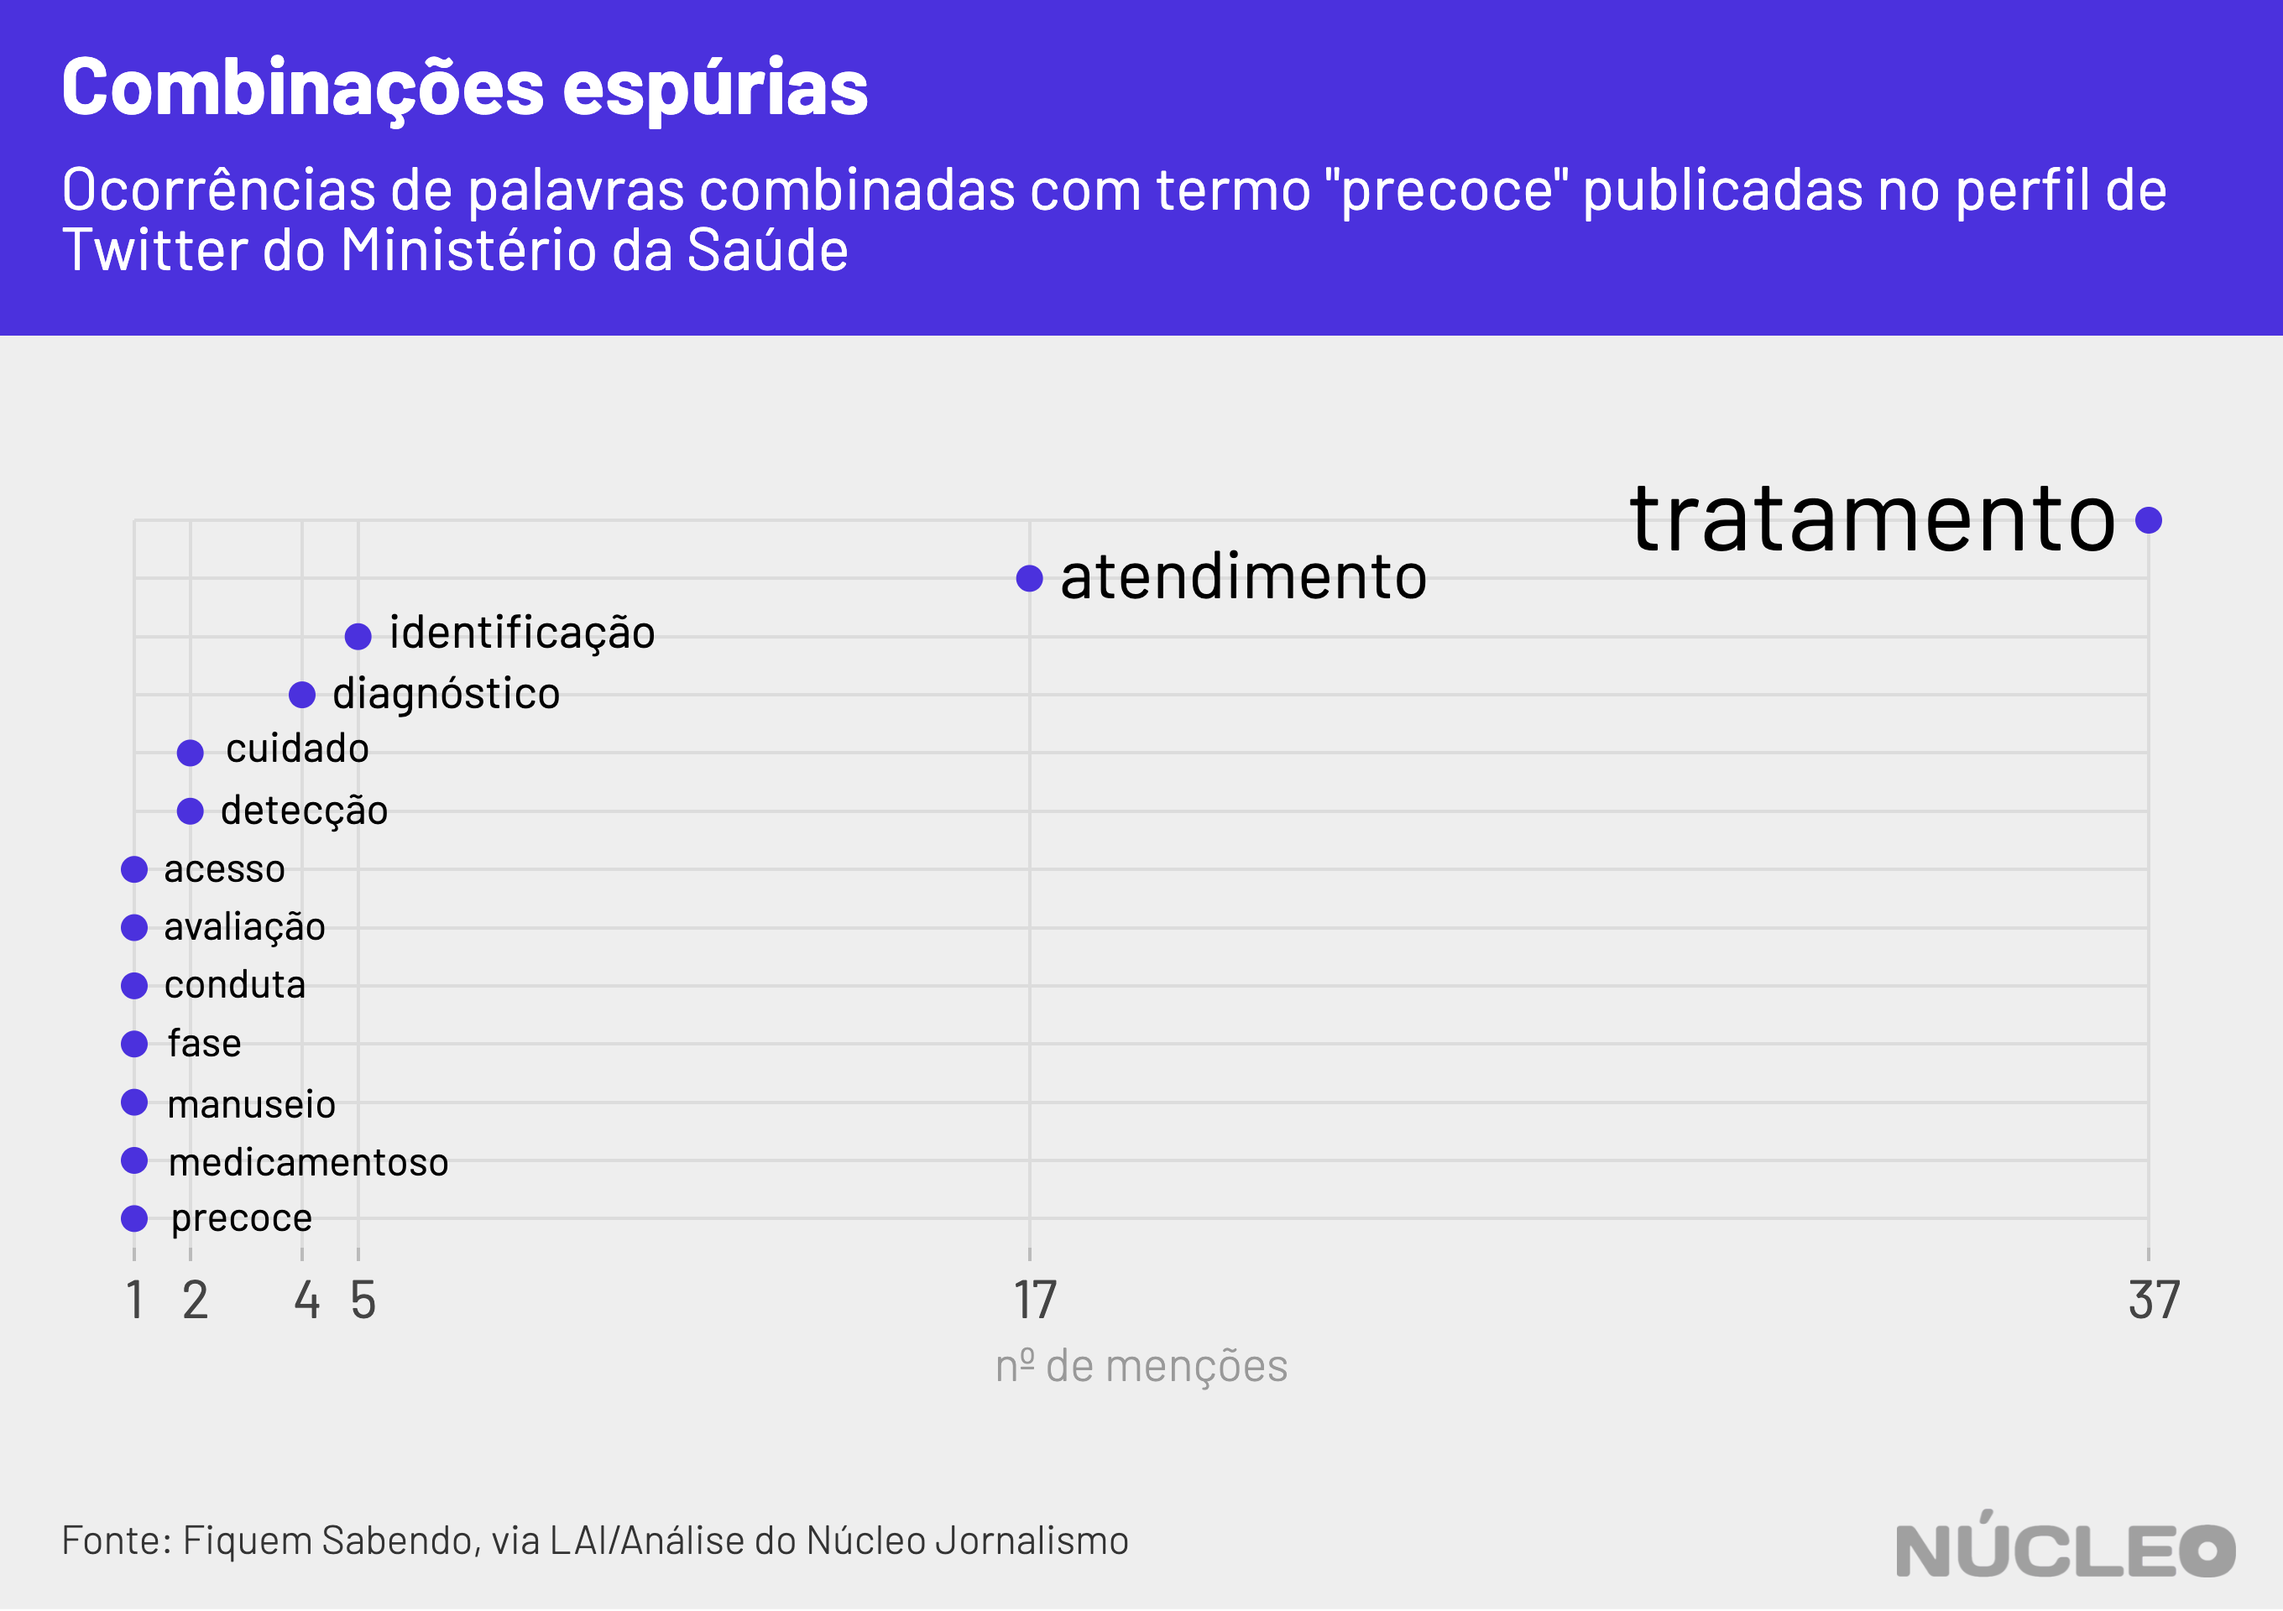
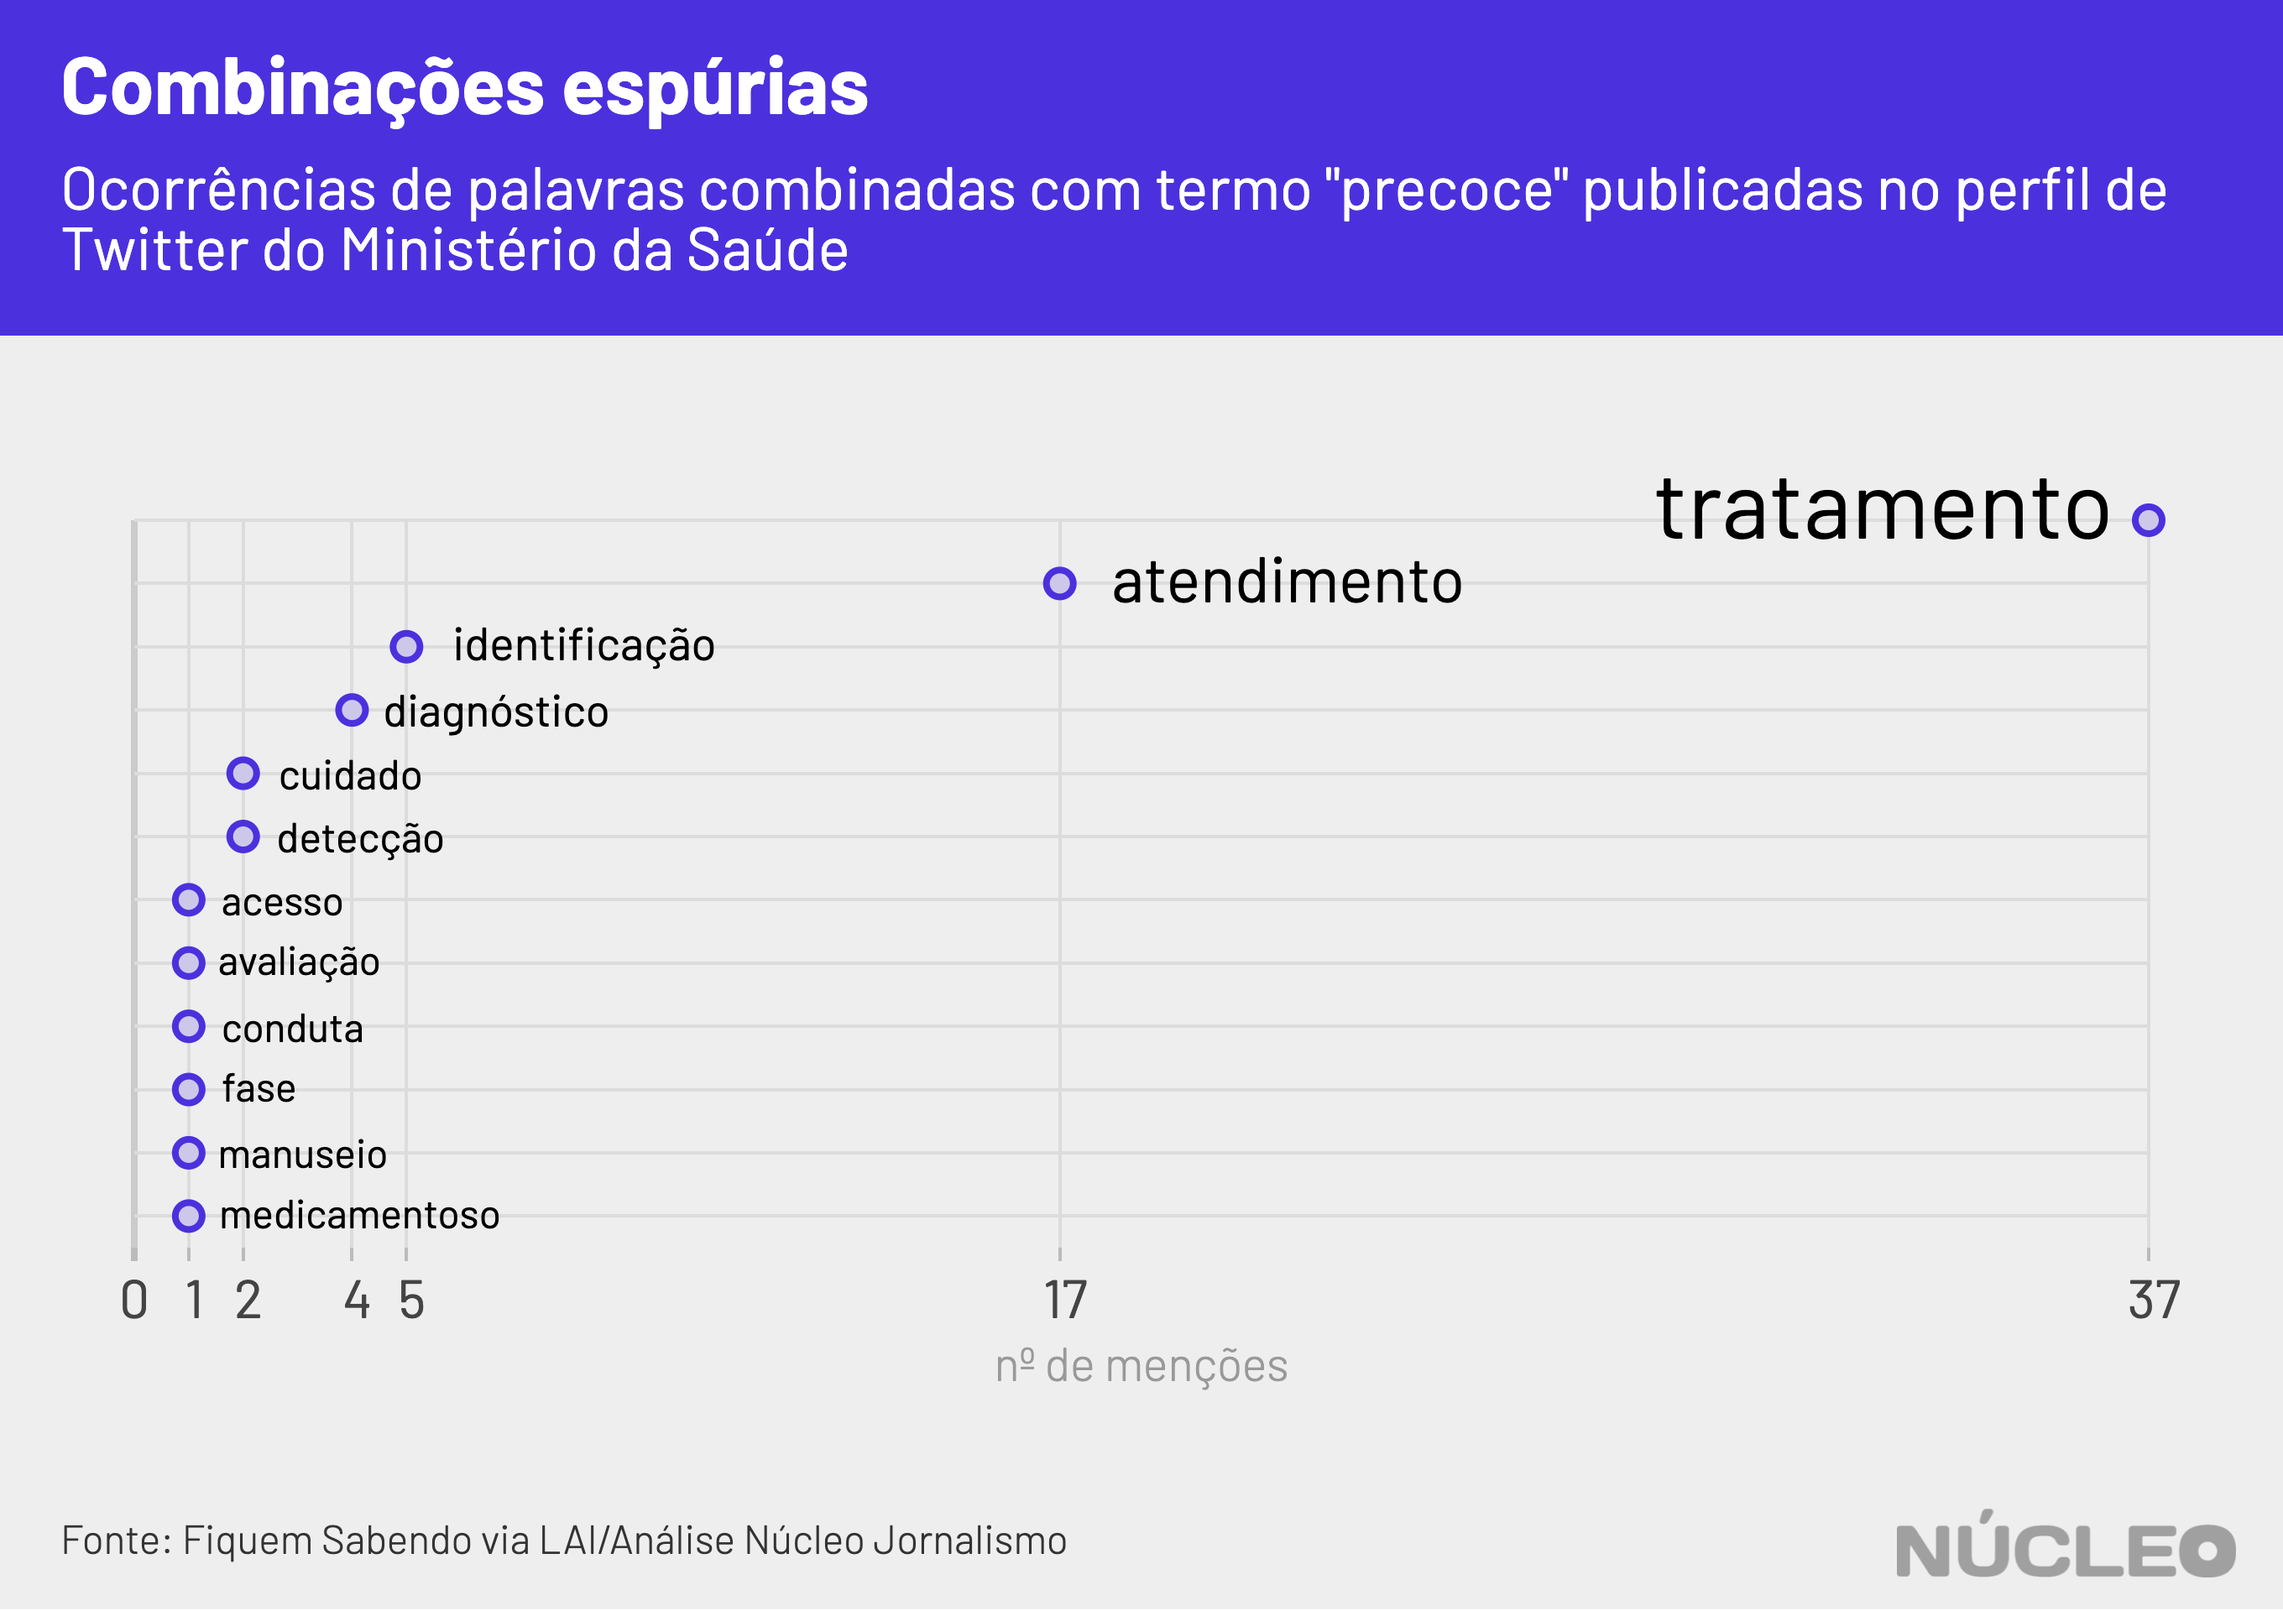
upload changes to post

diff --git a/_site/reportagem/2021-08-02-ms-tweets-tratamento-covid.html b/_site/reportagem/2021-08-02-ms-tweets-tratamento-covid.html
@@ -459,7 +459,7 @@ height="0" width="0" style="display:none;visibility:hidden"></iframe></noscript>
 
         <h1>Ministério da Saúde camuflou dezenas de tweets sobre 'tratamento precoce'</h1>
         
-        <h2 class="subheading">Desde fev.2021 foram publicados 37 tweets explícitos em alusão a práticas ineficazes contra Covid-19, mas mascarou diversos outros com termos indiretos. Todos foram na gestão de Pazuello.</h2>
+        <h2 class="subheading">Desde fev.2021 foram publicados 37 tweets explícitos em alusão a práticas ineficazes contra Covid-19, mas foram mascarados diversos outros com termos indiretos. Todos foram na gestão de Pazuello.</h2>
         
 
 				<span class="arquivado">
@@ -519,6 +519,10 @@ height="0" width="0" style="display:none;visibility:hidden"></iframe></noscript>
 					<i class="fas fa-list-alt"></i> Arquivado em <u><a href="/reportagem"><span> reportagem</span></a></u>
 					</h4>
 
+					
+					<h4 class="arquivado creditos_alt">
+						<i class="fas fa-exclamation-circle fa-sm"></i> Conteúdo modificado após publicação (detalhes no fim da página)
+					</h4>
 					
 
 
@@ -743,6 +747,11 @@ height="0" width="0" style="display:none;visibility:hidden"></iframe></noscript>
 
 				<div style="margin: 0 auto;max-width:300px">
 
+								
+								<br />
+								<h4>
+									<i class="fas fa-exclamation-circle fa-sm"></i> <small><em>Texto modificado às 12h01 de 2.08.2021 para corrige erro de digitação na linha fina e retirar menção ao termo 'precoce' no gráfico, que entrou inadvertidamente entre os pontos plotados.</em></small>
+								</h4>
 								
 
 								<br />

diff --git a/_site/busca.html b/_site/busca.html
@@ -1128,7 +1128,7 @@ height="0" width="0" style="display:none;visibility:hidden"></iframe></noscript>
     
       "reportagem-2021-08-02-ms-tweets-tratamento-covid": {
         "title": "Ministério da Saúde camuflou dezenas de tweets sobre 'tratamento precoce'",
-        "subtitle": "Desde fev.2021 foram publicados 37 tweets explícitos em alusão a práticas ineficazes contra Covid-19, mas mascarou diversos outros com termos indiretos. Todos foram na gestão de Pazuello.",
+        "subtitle": "Desde fev.2021 foram publicados 37 tweets explícitos em alusão a práticas ineficazes contra Covid-19, mas foram mascarados diversos outros com termos indiretos. Todos foram na gestão de Pazuello.",
         "date": "02/08/2021",
         "cat": "",
         "categories": "[&quot;reportagem&quot;]",

diff --git a/_posts/2021-08-02-ms-tweets-tratamento-covid.md b/_posts/2021-08-02-ms-tweets-tratamento-covid.md
@@ -5,7 +5,7 @@ layout: conteudo
 tipo: reportagem
 title: "Ministério da Saúde camuflou dezenas de tweets sobre 'tratamento precoce'"
 titulo_redes: "Ministério da Saúde camuflou dezenas de tweets sobre 'tratamento precoce'"
-subtitle: 'Desde fev.2021 foram publicados 37 tweets explícitos em alusão a práticas ineficazes contra Covid-19, mas mascarou diversos outros com termos indiretos. Todos foram na gestão de Pazuello.'
+subtitle: 'Desde fev.2021 foram publicados 37 tweets explícitos em alusão a práticas ineficazes contra Covid-19, mas foram mascarados diversos outros com termos indiretos. Todos foram na gestão de Pazuello.'
 subtitle_redes: 'Gabinete mascarou diversas menções com termos indiretos. Todos foram na gestão de Pazuello.'
 excerpt: 'Gabinete mascarou diversas menções com termos indiretos. Todos foram na gestão de Pazuello.'
 date: "02/08/2021 09:06"
@@ -34,7 +34,7 @@ tags:
   - "Ivermectina, "
   - "Tratamento precoce, "
   - "Fiquem Sabendo"
-
+atualizacao: "Texto modificado às 12h01 de 2.08.2021 para corrige erro de digitação na linha fina e retirar menção ao termo 'precoce' no gráfico, que entrou inadvertidamente entre os pontos plotados."
 ---
 
 O Ministério da Saúde fez 37 publicações explícitas sobre "tratamento precoce" para Covid-19 em seu perfil no Twitter desde o início da pandemia, e mascarou dezenas de outras publicações com expressões alternativas que remetem a protocolos ineficazes no combate à doença.
